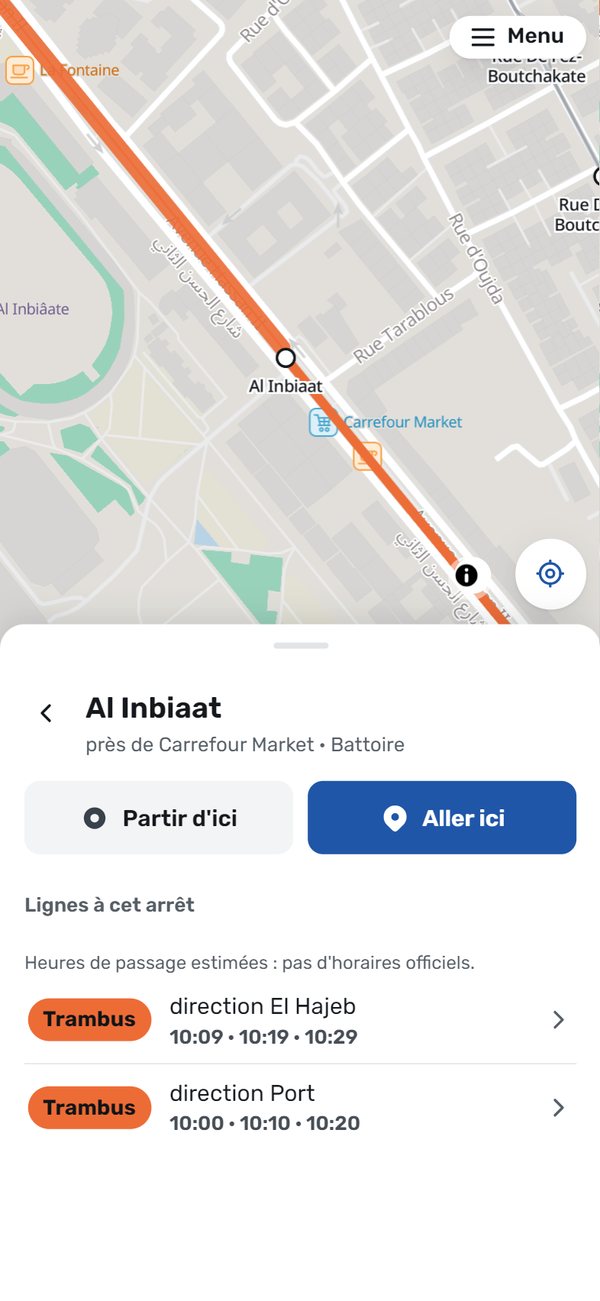
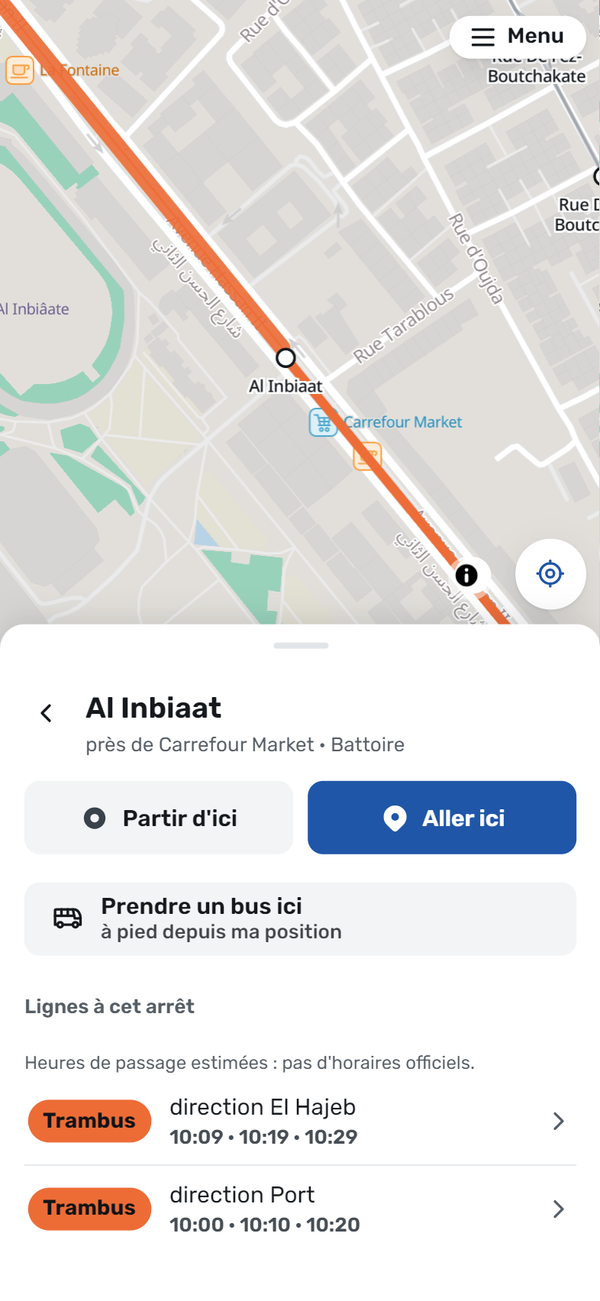
line badge on the ride sign, catch a bus from any stop, start button under the trip summary

Changed region(s): [[0.03, 0.6764, 0.78, 0.9531], [0.69, 0.7379, 0.78, 0.7686], [0.51, 0.9224, 0.6, 0.9531]]

diff --git a/src/style.css b/src/style.css
@@ -1169,18 +1169,6 @@ button:active,
   align-items: center;
   gap: 10px;
 }
-.sign-num {
-  display: grid;
-  place-items: center;
-  min-width: 46px;
-  height: 36px;
-  padding: 0 8px;
-  border-radius: 6px;
-  background: #fff;
-  color: #15191d;
-  font-weight: 700;
-  font-size: 1.25rem;
-}
 .sign-text {
   font-size: 1.125rem;
   font-weight: 600;
@@ -1709,8 +1697,7 @@ button.option:hover {
 .btn,
 .btn-small,
 .chip-toggle,
-.map-btn,
-.sign-num {
+.map-btn {
   height: auto;
   min-height: 2em;
 }
@@ -1926,19 +1913,15 @@ button.option:hover {
   font-weight: 500;
   color: var(--ink-2);
 }
-/* The floating Démarrer button stays above the timeline's marks. */
-.trip .actions {
-  z-index: 3;
-}
 /* In a filled button the pin takes the button's text colour (red on blue didn't read). */
 .btn-primary .icon-dest {
   color: currentColor;
 }
 /* "Démarrer": the navigation arrowhead tilted to go forward, as maps apps draw it. */
-.trip .btn-primary .icon svg {
+.trip-start .icon svg {
   transform: rotate(45deg);
 }
-[dir="rtl"] .trip .btn-primary .icon svg {
+[dir="rtl"] .trip-start .icon svg {
   transform: rotate(-45deg);
 }
 /* Direction tabs on a line: arrow and destination side by side, centred on the text. */
@@ -1951,4 +1934,32 @@ button.option:hover {
 .icon-toward {
   width: 18px;
   height: 18px;
+}
+/* The line's own badge on the ride sign, outlined so a dark line colour still stands out on the dark sign. */
+.sign .badge {
+  box-shadow: 0 0 0 2px rgba(255, 255, 255, 0.9);
+}
+/* "Prendre un bus ici": two lines, what it does and how you get there. */
+.btn-take {
+  justify-content: flex-start;
+  text-align: start;
+  gap: 12px;
+}
+.btn-two-lines {
+  display: grid;
+  line-height: 1.25;
+}
+.btn-two-lines small {
+  font-weight: 500;
+  opacity: 0.8;
+}
+/* "Autre arrêt" is a small link: give it a full 24px target (WCAG 2.2). */
+.tl-other {
+  display: inline-flex;
+  align-items: center;
+  min-height: 28px;
+}
+.trip-start {
+  display: grid;
+  margin: 2px 0 14px;
 }

diff --git a/src/views/ride.ts b/src/views/ride.ts
@@ -1,6 +1,6 @@
 import type { RideLeg } from "../router.ts";
 import { fmtDistance, t } from "../i18n.ts";
-import { h } from "../ui/dom.ts";
+import { h, lineBadge } from "../ui/dom.ts";
 import { RideTracker } from "../ride.ts";
 import { bmap, net, nm, ride, setRide, state } from "../app/state.ts";
 import { back } from "../app/nav.ts";
@@ -27,7 +27,7 @@ export function rideBody(index: number) {
         h("p", { class: "ride-big" }, next ? nm(net.stops[variantOf(next).stops[next.board]].n) : nm(state.to?.label)),
         h("p", { class: "muted" }, u.remaining !== undefined ? fmtDistance(u.remaining) : t("locating")),
         next && u.remaining !== undefined && u.remaining < 40
-          ? h("div", { class: "sign" }, h("div", { class: "sign-row" }, h("span", { class: "sign-num" }, net.lines[next.line].brt ? "T" : net.lines[next.line].ref), h("span", { class: "sign-text" }, variantOf(next).to)), h("div", { class: "sign-sub" }, t("boardHere")))
+          ? h("div", { class: "sign" }, h("div", { class: "sign-row" }, lineBadge(net.lines[next.line].ref, net.lines[next.line].colour, "lg"), h("span", { class: "sign-text" }, variantOf(next).to)), h("div", { class: "sign-sub" }, t("boardHere")))
           : null,
       );
     } else {
@@ -41,7 +41,7 @@ export function rideBody(index: number) {
         h(
           "div",
           { class: "sign" },
-          h("div", { class: "sign-row" }, h("span", { class: "sign-num" }, line.brt ? "T" : line.ref), h("span", { class: "sign-text" }, v.to)),
+          h("div", { class: "sign-row" }, lineBadge(line.ref, line.colour, "lg"), h("span", { class: "sign-text" }, v.to)),
           u.nextStop !== undefined ? h("div", { class: "sign-sub" }, `${t("nextIs")} · ${nm(net.stops[u.nextStop].n)}`) : null,
         ),
         h(

diff --git a/src/views/lines.ts b/src/views/lines.ts
@@ -4,7 +4,7 @@ import { h, icon, lineBadge } from "../ui/dom.ts";
 import { fmtDH } from "../fares.ts";
 import { net, nm, render, router, state, type Endpoint } from "../app/state.ts";
 import { go } from "../app/nav.ts";
-import { plan, setEndpoint } from "../app/plan.ts";
+import { catchBusHere, plan, setEndpoint } from "../app/plan.ts";
 import { nextPasses } from "../passes.ts";
 import { clock } from "./tripopts.ts";
 import { header, linesAt, stopLine } from "./common.ts";
@@ -98,7 +98,17 @@ export function stopBody(si: number) {
           h("button", { class: "btn", onclick: () => ((state.boardStop = si), plan()) }, t("getOnHere")),
           h("button", { class: "btn", onclick: () => ((state.alightStop = si), plan()) }, t("getOffHere")),
         )
-      : null,
+      : // No trip yet: walk here from where you are and take a bus from this stop, then say where to.
+        h(
+          "div",
+          { class: "actions" },
+          h(
+            "button",
+            { class: "btn btn-take", onclick: () => catchBusHere(si) },
+            icon.bus(),
+            h("span", { class: "btn-two-lines" }, h("span", null, t("takeBusHere")), h("small", null, t("takeBusHereSub"))),
+          ),
+        ),
     h("h3", { class: "section-title label" }, t("linesHere")),
     serving.some(({ li }) => net.lines[li].hours) ? h("p", { class: "fine" }, t("passesNote")) : null,
     h(

diff --git a/src/i18n.ts b/src/i18n.ts
@@ -127,6 +127,9 @@ const S = {
   routeWalk: { fr: "Moins de marche", ar: "قليل المشي", en: "Less walking" },
   timesNotPublished: { fr: "horaires non publiés", ar: "الأوقات ما منشوراش", en: "times not published" },
   passesNote: { fr: "Heures de passage estimées : pas d'horaires officiels.", ar: "أوقات الدوز تقريبية: ما كاينش الأوقات الرسمية.", en: "Estimated passing times: there are no official timetables." },
+  takeBusHere: { fr: "Prendre un bus ici", ar: "نشد الطوبيس من هنا", en: "Catch a bus here" },
+  takeBusHereSub: { fr: "à pied depuis ma position", ar: "على رجلي من فين أنا", en: "walking from where I am" },
+  takeBusWhereTo: { fr: "Où allez-vous depuis cet arrêt ?", ar: "فين غادي من هاد لاري؟", en: "Where to from this stop?" },
   version: { fr: "Version {x}", ar: "النسخة {x}", en: "Version {x}" },
   updated: { fr: "Nouvelle version prête · Recharger", ar: "كاينة نسخة جديدة · عاود شارجي", en: "New version ready · Reload" },
   settings: { fr: "Réglages", ar: "الباراميترات", en: "Settings" },

diff --git a/src/views/trip.ts b/src/views/trip.ts
@@ -125,8 +125,9 @@ export function tripBody(index: number) {
       h("span", { class: "journey-time" }, `≈ ${fmtMinutes(j.seconds)}`),
       h("span", { class: "muted" }, `${fmtDistance(j.walkMetres)} ${t("walkMin")}${fare ? ` · ≈ ${fmtDH(fare)}` : ""}`),
     ),
+    // Start sits under the summary, as in a maps app: seen at once, and never floating over the steps.
+    h("div", { class: "trip-start" }, h("button", { class: "btn btn-primary", onclick: () => go({ name: "ride", index }) }, icon.arrow(), t("startTrip"))),
     h("ol", { class: "timeline" }, steps),
-    h("div", { class: "actions" }, h("button", { class: "btn btn-primary", onclick: () => go({ name: "ride", index }) }, icon.arrow(), t("startTrip"))),
     h("p", { class: "fine" }, t("estimates")),
   );
 }

diff --git a/src/app/plan.ts b/src/app/plan.ts
@@ -67,6 +67,16 @@ export function plan() {
   render();
 }
 
+/** From a stop's screen: walk to it from where I am, take a bus from it; then choose where to. */
+export async function catchBusHere(stop: number) {
+  const ll = state.me?.ll ?? (await locate(false));
+  if (ll) state.from = meEndpoint(ll);
+  state.boardStop = stop;
+  state.alightStop = undefined;
+  flash(t("takeBusWhereTo"), 5000);
+  go({ name: "search", field: "to" });
+}
+
 /** Forget the current trip: both ends (unless the start is "my location"), time, picked stops, the saved last trip. */
 export function clearTripState() {
   state.to = undefined;

diff --git a/src/main.ts b/src/main.ts
@@ -101,7 +101,7 @@ function render() {
   switch (v.name) {
     case "home":
       // Back on home after a trip: start fresh, as a maps app does.
-      if (state.journeys.length) clearTripState();
+      if (state.journeys.length || state.boardStop !== undefined) clearTripState();
       setSheet(state.sheet === "full" ? "half" : state.sheet);
       sheetBody.append(planner("home"), homeBody());
       bmap?.setPins(state.from?.ll, state.to?.ll);
